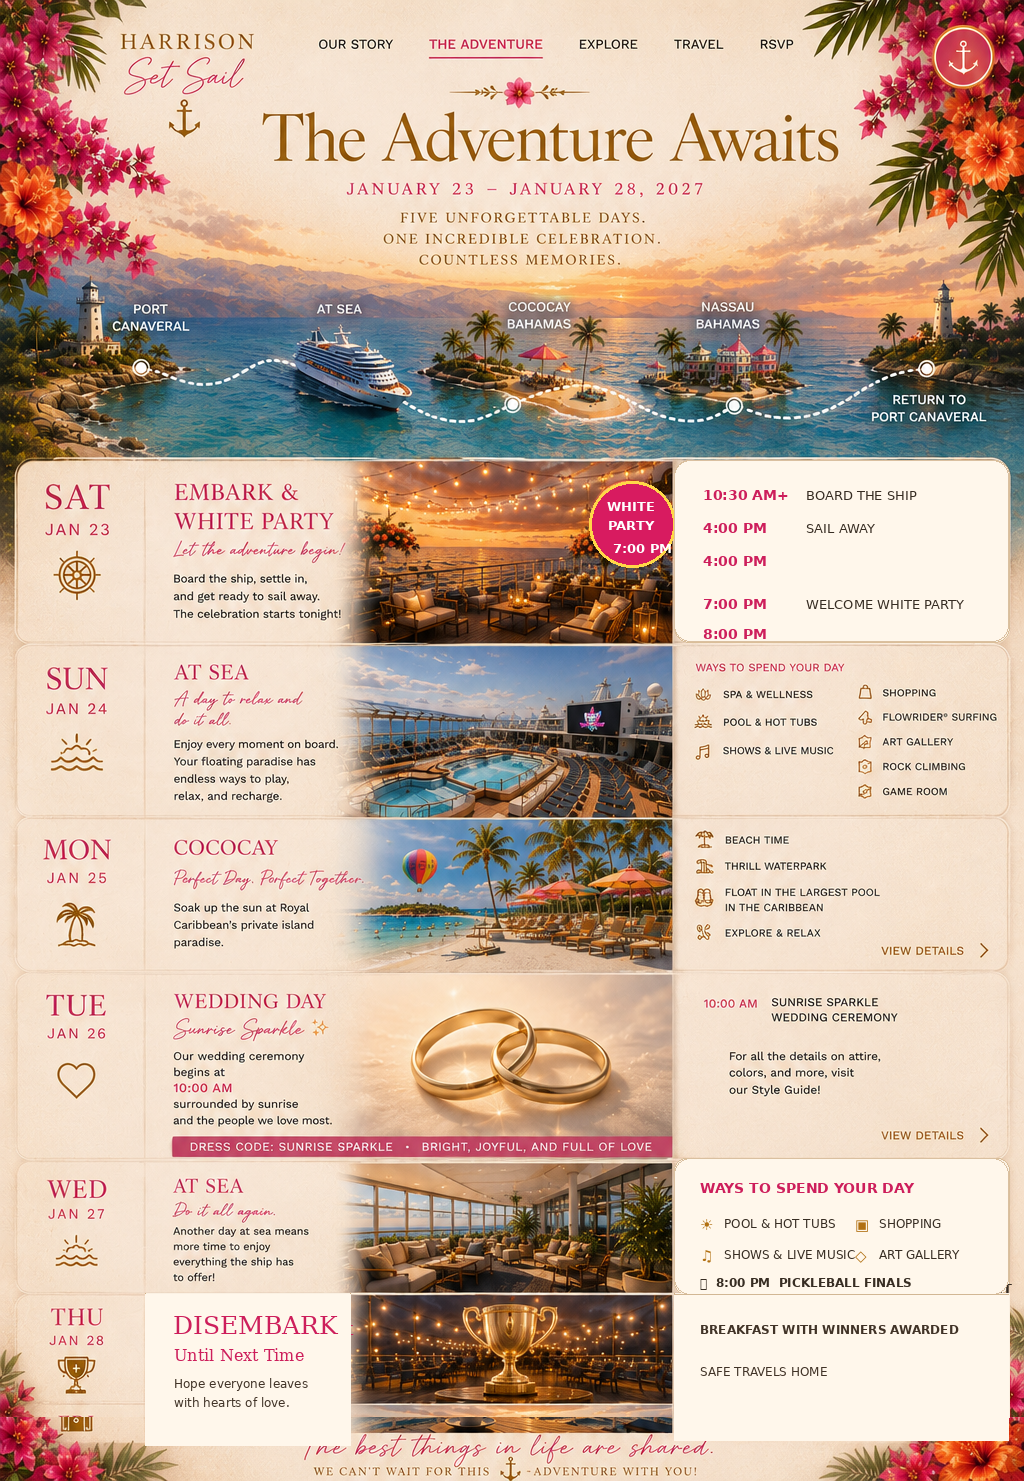
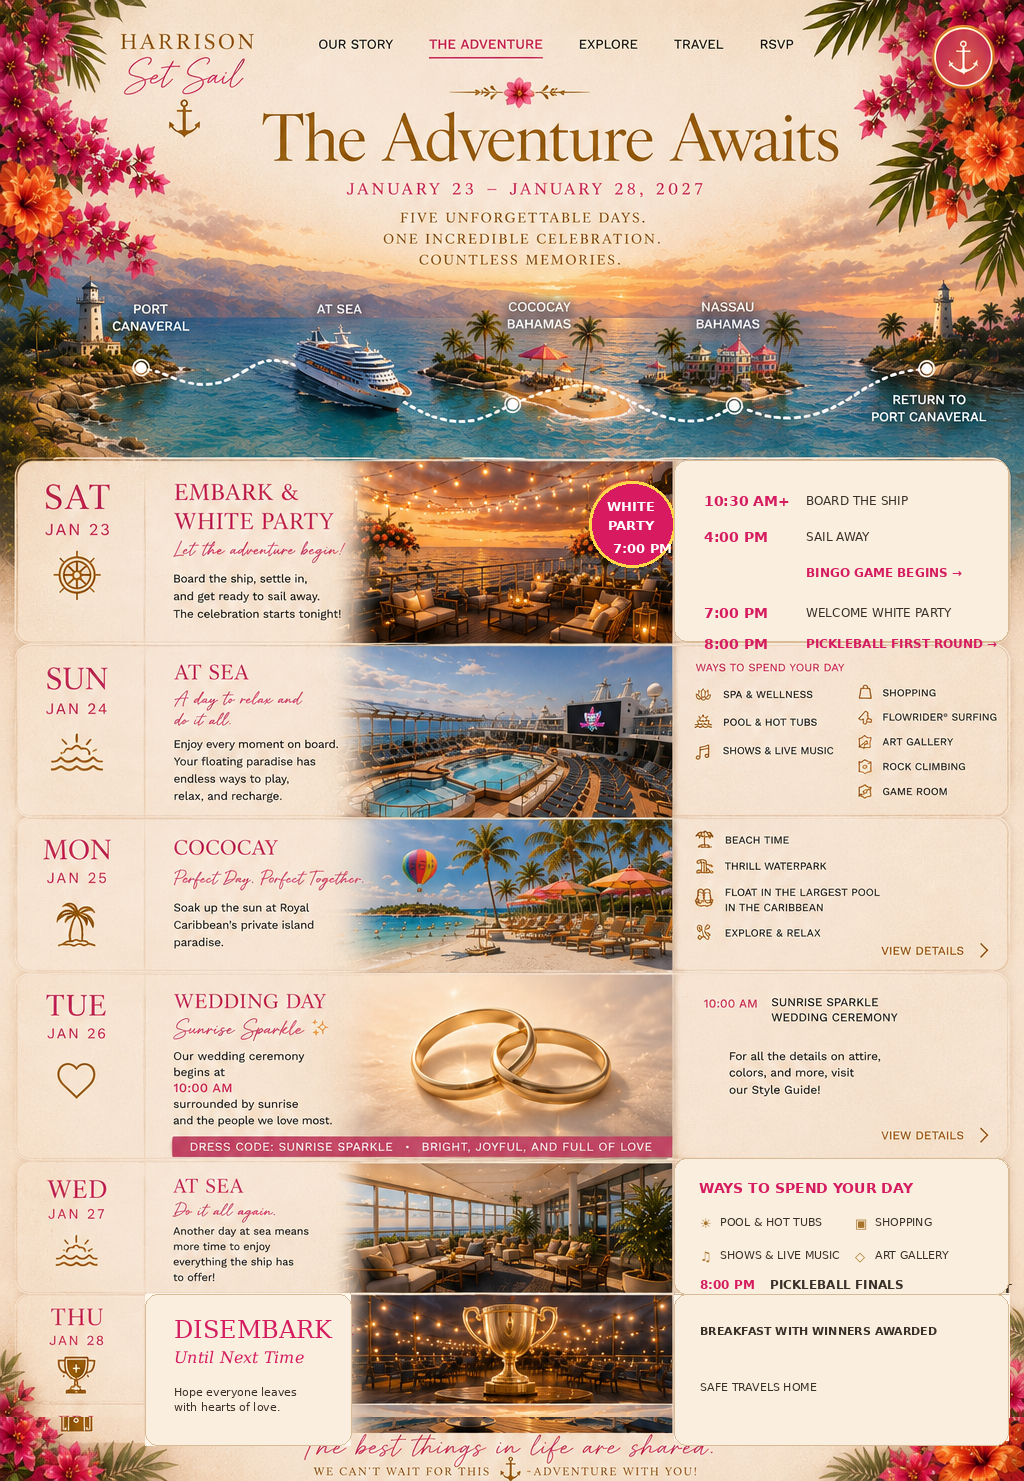
fix sizing and font rsvp

diff --git a/css/site.css b/css/site.css
@@ -140,3 +140,44 @@
  .rsvp-luxe-header{padding:0 12px}
  .rsvp-section{padding:12px}
 }
+
+/* Version 16 — clean final corrections */
+/* Adventure is now baked into one image; no patch panels can overlap. */
+.action-chip,.itinerary-fix{display:none!important}
+
+/* RSVP: clean tropical invitation, no cropped mockup fragments. */
+.rsvp-luxe-body{background:linear-gradient(180deg,#0b405c,#062c42)!important}
+.rsvp-luxe-shell{padding:48px 18px 90px!important}
+.rsvp-luxe-card{
+  position:relative!important;overflow:hidden!important;width:min(760px,94vw)!important;
+  margin:auto!important;padding:64px 66px 58px!important;border:2px solid #d5a648!important;
+  border-radius:30px!important;background:#fff9ef!important;
+  box-shadow:0 28px 70px rgba(0,0,0,.34),inset 0 0 0 8px rgba(255,255,255,.55)!important;
+}
+.rsvp-luxe-card:before{content:""!important;position:absolute!important;inset:14px!important;border:1px solid rgba(201,147,47,.45)!important;border-radius:20px!important;z-index:0!important}
+.rsvp-luxe-card:after{content:"🌺"!important;display:block!important;position:absolute!important;right:28px!important;top:22px!important;font-size:48px!important;z-index:1!important}
+.rsvp-floral{display:none!important}
+.rsvp-luxe-header,.rsvp-luxe-form{position:relative!important;z-index:2!important}
+.rsvp-luxe-header{max-width:590px!important;margin:auto!important;padding:0 32px!important;text-align:center!important}
+.rsvp-anchor{font-size:30px!important;margin:0 0 4px!important}
+.rsvp-kicker{font-size:13px!important;letter-spacing:.12em!important}
+.rsvp-luxe-header h1{font-size:clamp(48px,6vw,68px)!important;line-height:.96!important;margin:10px 0 14px!important;color:#102f46!important}
+.rsvp-divider{margin:14px auto!important}.rsvp-personal{margin:17px 0 0!important;font-size:21px!important}
+.rsvp-luxe-form{display:grid!important;gap:18px!important;margin-top:30px!important;padding-bottom:0!important}
+.rsvp-section{padding:16px!important;background:#fffdf9!important;border:1px solid #ead8bc!important;border-radius:14px!important;box-shadow:none!important}
+.rsvp-section h2{font-size:15px!important;margin:0 0 10px!important}
+.rsvp-two-col,.rsvp-choice-row{gap:14px!important}
+.activity-grid{gap:10px!important}
+.activity-card{min-height:112px!important;background:#fffaf2!important}
+.aligned-card{margin:0!important}
+.rsvp-section textarea{min-height:105px!important;margin:6px 0 0!important;position:static!important}
+.rsvp-submit{position:static!important;margin:8px auto 0!important;min-width:245px!important}
+.rsvp-script{position:static!important;margin:0!important;padding:0!important;text-align:center!important}
+@media(max-width:760px){
+ .rsvp-luxe-card{padding:50px 22px 44px!important;border-radius:22px!important}
+ .rsvp-luxe-card:after{font-size:36px!important;right:16px!important;top:14px!important}
+ .rsvp-luxe-header{padding:0 8px!important}
+ .rsvp-luxe-header h1{font-size:42px!important}
+ .rsvp-two-col,.rsvp-choice-row{grid-template-columns:1fr!important}
+ .activity-grid{grid-template-columns:repeat(2,1fr)!important}
+}

diff --git a/explore.html b/explore.html
@@ -1,4 +1,4 @@
-<!doctype html><html lang="en"><head><meta charset="utf-8"><meta name="viewport" content="width=device-width,initial-scale=1"><title>Explore the Ship | Julia & Wesley</title><link rel="stylesheet" href="css/site.css?v=15"></head><body><main class="page-shell explore-shell"><img class="approved-page" src="assets/approved/explore.png" alt="Explore the Ship approved design">
+<!doctype html><html lang="en"><head><meta charset="utf-8"><meta name="viewport" content="width=device-width,initial-scale=1"><title>Explore the Ship | Julia & Wesley</title><link rel="stylesheet" href="css/site.css?v=16"></head><body><main class="page-shell explore-shell"><img class="approved-page" src="assets/approved/explore.png" alt="Explore the Ship approved design">
 <a class="hotspot" aria-label="Home" href="index.html?skip=1" style="left:14%;top:1%;width:10%;height:4%"></a><a class="hotspot" aria-label="Our Story" href="our-story.html" style="left:25%;top:1%;width:13%;height:4%"></a><a class="hotspot" aria-label="The Adventure" href="adventure.html" style="left:39%;top:1%;width:16%;height:4%"></a><a class="hotspot" aria-label="Explore" href="explore.html" style="left:56%;top:1%;width:10%;height:4%"></a><a class="hotspot" aria-label="Travel" href="travel.html" style="left:67%;top:1%;width:9%;height:4%"></a><a class="hotspot" aria-label="RSVP" href="rsvp.html" style="left:77%;top:.5%;width:13%;height:5%"></a>
 <div class="ship-interactive" id="ship-interactive" aria-label="Drag the aerial ship view to rotate and use the mouse wheel to zoom"><img src="assets/approved/ship-map-crop.jpg" alt="Aerial deck map of Harmony of the Seas"></div>
 <button class="hotspot neighborhood" data-neighborhood="pool" style="left:23%;top:47.2%;width:13%;height:3%" aria-label="Show Pool Deck"></button><button class="hotspot neighborhood" data-neighborhood="central" style="left:40%;top:47.2%;width:15%;height:3%" aria-label="Show Central Park"></button><button class="hotspot neighborhood" data-neighborhood="entertainment" style="left:58%;top:47.2%;width:19%;height:3%" aria-label="Show Entertainment Place"></button><button class="hotspot neighborhood" data-neighborhood="spa" style="left:83%;top:51%;width:13%;height:3%" aria-label="Show Vitality Spa"></button><button class="hotspot neighborhood" data-neighborhood="boardwalk" style="left:20%;top:56.9%;width:14%;height:3%" aria-label="Show Boardwalk"></button><button class="hotspot neighborhood" data-neighborhood="promenade" style="left:39%;top:57%;width:18%;height:3%" aria-label="Show Royal Promenade"></button><button class="hotspot neighborhood" data-neighborhood="youth" style="left:61%;top:57%;width:13%;height:3%" aria-label="Show Youth Zone"></button>

diff --git a/adventure.html b/adventure.html
@@ -1,9 +1,4 @@
-<!doctype html><html lang="en"><head><meta charset="utf-8"><meta name="viewport" content="width=device-width,initial-scale=1"><title>The Adventure | Julia & Wesley</title><link rel="stylesheet" href="css/site.css?v=15"></head><body><main class="page-shell"><img class="approved-page" src="assets/approved/adventure.png" alt="The Adventure cruise itinerary">
+<!doctype html><html lang="en"><head><meta charset="utf-8"><meta name="viewport" content="width=device-width,initial-scale=1"><title>The Adventure | Julia & Wesley</title><link rel="stylesheet" href="css/site.css?v=16"></head><body><main class="page-shell"><img class="approved-page" src="assets/approved/adventure.png" alt="The Adventure cruise itinerary">
 <a class="hotspot" aria-label="Our Story" href="our-story.html" style="left:31%;top:1%;width:11%;height:4%"></a><a class="hotspot" aria-label="The Adventure" href="adventure.html" style="left:42%;top:1%;width:14%;height:4%"></a><a class="hotspot" aria-label="Explore" href="explore.html" style="left:56%;top:1%;width:9%;height:4%"></a><a class="hotspot" aria-label="Travel" href="travel.html" style="left:66%;top:1%;width:8%;height:4%"></a><a class="hotspot" aria-label="RSVP" href="rsvp.html" style="left:74%;top:.5%;width:14%;height:5%"></a>
-<a class="action-chip sat-bingo" href="bingo.html">Bingo game begins →</a>
-<a class="action-chip sat-pickleball" href="pickleball.html">8:00 PM&nbsp;&nbsp; Pickleball first round →</a>
-<div class="itinerary-fix wed-panel"><h3>Ways to spend your day</h3><div class="wed-grid"><span>☀ Pool &amp; hot tubs</span><span>▣ Shopping</span><span>♫ Shows &amp; live music</span><span>◇ Art gallery</span></div><p><strong>8:00 PM&nbsp;&nbsp; Pickleball finals</strong></p></div>
-<div class="itinerary-fix thu-left"><h3>Disembark</h3><em>Until Next Time</em><p>Hope everyone leaves<br>with hearts of love.</p></div>
-<div class="itinerary-fix thu-right"><p><strong>Breakfast with winners awarded</strong></p><p>Safe travels home</p></div>
 <a class="details-button" href="cococay.html" style="left:84%;top:62.6%">View details →</a><a class="details-button" href="wedding-day.html" style="left:84%;top:75.7%">View details →</a>
 </main></body></html>

diff --git a/cococay.html b/cococay.html
@@ -1,1 +1,1 @@
-<!doctype html><html lang="en"><head><meta charset="utf-8"><meta name="viewport" content="width=device-width,initial-scale=1"><title>Perfect Day at CocoCay | Julia & Wesley</title><link rel="stylesheet" href="css/site.css?v=15"></head><body><main class="page-shell"><img class="approved-page" src="assets/approved/cococay.png" alt="Perfect Day at CocoCay approved design"><a class="hotspot" aria-label="Home" href="index.html?skip=1" style="left:14%;top:1%;width:10%;height:4%"></a><a class="hotspot" aria-label="Our Story" href="our-story.html" style="left:25%;top:1%;width:13%;height:4%"></a><a class="hotspot" aria-label="The Adventure" href="adventure.html" style="left:39%;top:1%;width:16%;height:4%"></a><a class="hotspot" aria-label="Explore" href="explore.html" style="left:56%;top:1%;width:10%;height:4%"></a><a class="hotspot" aria-label="Travel" href="travel.html" style="left:67%;top:1%;width:9%;height:4%"></a><a class="hotspot" aria-label="RSVP" href="rsvp.html" style="left:76%;top:.3%;width:15%;height:5%"></a></main></body></html>
+<!doctype html><html lang="en"><head><meta charset="utf-8"><meta name="viewport" content="width=device-width,initial-scale=1"><title>Perfect Day at CocoCay | Julia & Wesley</title><link rel="stylesheet" href="css/site.css?v=16"></head><body><main class="page-shell"><img class="approved-page" src="assets/approved/cococay.png" alt="Perfect Day at CocoCay approved design"><a class="hotspot" aria-label="Home" href="index.html?skip=1" style="left:14%;top:1%;width:10%;height:4%"></a><a class="hotspot" aria-label="Our Story" href="our-story.html" style="left:25%;top:1%;width:13%;height:4%"></a><a class="hotspot" aria-label="The Adventure" href="adventure.html" style="left:39%;top:1%;width:16%;height:4%"></a><a class="hotspot" aria-label="Explore" href="explore.html" style="left:56%;top:1%;width:10%;height:4%"></a><a class="hotspot" aria-label="Travel" href="travel.html" style="left:67%;top:1%;width:9%;height:4%"></a><a class="hotspot" aria-label="RSVP" href="rsvp.html" style="left:76%;top:.3%;width:15%;height:5%"></a></main></body></html>

diff --git a/pickleball.html b/pickleball.html
@@ -1,1 +1,1 @@
-<!doctype html><html lang="en"><head><meta charset="utf-8"><meta name="viewport" content="width=device-width,initial-scale=1"><title>The Dink Before I Do | Julia & Wesley</title><link rel="stylesheet" href="css/site.css?v=15"></head><body><main class="page-shell"><img class="approved-page" src="assets/approved/pickleball.png" alt="The Dink Before I Do approved design"><a class="hotspot" aria-label="Home" href="index.html?skip=1" style="left:14%;top:1%;width:10%;height:4%"></a><a class="hotspot" aria-label="Our Story" href="our-story.html" style="left:25%;top:1%;width:13%;height:4%"></a><a class="hotspot" aria-label="The Adventure" href="adventure.html" style="left:39%;top:1%;width:16%;height:4%"></a><a class="hotspot" aria-label="Explore" href="explore.html" style="left:56%;top:1%;width:10%;height:4%"></a><a class="hotspot" aria-label="Travel" href="travel.html" style="left:67%;top:1%;width:9%;height:4%"></a><a class="hotspot" aria-label="RSVP" href="rsvp.html" style="left:76%;top:.3%;width:15%;height:5%"></a></main></body></html>
+<!doctype html><html lang="en"><head><meta charset="utf-8"><meta name="viewport" content="width=device-width,initial-scale=1"><title>The Dink Before I Do | Julia & Wesley</title><link rel="stylesheet" href="css/site.css?v=16"></head><body><main class="page-shell"><img class="approved-page" src="assets/approved/pickleball.png" alt="The Dink Before I Do approved design"><a class="hotspot" aria-label="Home" href="index.html?skip=1" style="left:14%;top:1%;width:10%;height:4%"></a><a class="hotspot" aria-label="Our Story" href="our-story.html" style="left:25%;top:1%;width:13%;height:4%"></a><a class="hotspot" aria-label="The Adventure" href="adventure.html" style="left:39%;top:1%;width:16%;height:4%"></a><a class="hotspot" aria-label="Explore" href="explore.html" style="left:56%;top:1%;width:10%;height:4%"></a><a class="hotspot" aria-label="Travel" href="travel.html" style="left:67%;top:1%;width:9%;height:4%"></a><a class="hotspot" aria-label="RSVP" href="rsvp.html" style="left:76%;top:.3%;width:15%;height:5%"></a></main></body></html>

diff --git a/wedding-day.html b/wedding-day.html
@@ -1,1 +1,1 @@
-<!doctype html><html lang="en"><head><meta charset="utf-8"><meta name="viewport" content="width=device-width,initial-scale=1"><title>Wedding Day | Julia & Wesley</title><link rel="stylesheet" href="css/site.css?v=15"></head><body><main class="page-shell"><img class="approved-page" src="assets/approved/wedding-day.png" alt="Wedding Day approved design"><a class="hotspot" aria-label="Home" href="index.html?skip=1" style="left:14%;top:1%;width:10%;height:4%"></a><a class="hotspot" aria-label="Our Story" href="our-story.html" style="left:25%;top:1%;width:13%;height:4%"></a><a class="hotspot" aria-label="The Adventure" href="adventure.html" style="left:39%;top:1%;width:16%;height:4%"></a><a class="hotspot" aria-label="Explore" href="explore.html" style="left:56%;top:1%;width:10%;height:4%"></a><a class="hotspot" aria-label="Travel" href="travel.html" style="left:67%;top:1%;width:9%;height:4%"></a><a class="hotspot" aria-label="RSVP" href="rsvp.html" style="left:76%;top:.3%;width:15%;height:5%"></a></main></body></html>
+<!doctype html><html lang="en"><head><meta charset="utf-8"><meta name="viewport" content="width=device-width,initial-scale=1"><title>Wedding Day | Julia & Wesley</title><link rel="stylesheet" href="css/site.css?v=16"></head><body><main class="page-shell"><img class="approved-page" src="assets/approved/wedding-day.png" alt="Wedding Day approved design"><a class="hotspot" aria-label="Home" href="index.html?skip=1" style="left:14%;top:1%;width:10%;height:4%"></a><a class="hotspot" aria-label="Our Story" href="our-story.html" style="left:25%;top:1%;width:13%;height:4%"></a><a class="hotspot" aria-label="The Adventure" href="adventure.html" style="left:39%;top:1%;width:16%;height:4%"></a><a class="hotspot" aria-label="Explore" href="explore.html" style="left:56%;top:1%;width:10%;height:4%"></a><a class="hotspot" aria-label="Travel" href="travel.html" style="left:67%;top:1%;width:9%;height:4%"></a><a class="hotspot" aria-label="RSVP" href="rsvp.html" style="left:76%;top:.3%;width:15%;height:5%"></a></main></body></html>

diff --git a/our-story.html b/our-story.html
@@ -1,1 +1,1 @@
-<!doctype html><html lang="en"><head><meta charset="utf-8"><meta name="viewport" content="width=device-width,initial-scale=1"><title>Our Story | Julia & Wesley</title><link rel="stylesheet" href="css/site.css?v=15"></head><body><main class="page-shell"><img class="approved-page" src="assets/approved/our-story.png" alt="Our Story approved design"><a class="hotspot" aria-label="Home" href="index.html?skip=1" style="left:14%;top:1%;width:10%;height:4%"></a><a class="hotspot" aria-label="Our Story" href="our-story.html" style="left:25%;top:1%;width:13%;height:4%"></a><a class="hotspot" aria-label="The Adventure" href="adventure.html" style="left:39%;top:1%;width:16%;height:4%"></a><a class="hotspot" aria-label="Explore" href="explore.html" style="left:56%;top:1%;width:10%;height:4%"></a><a class="hotspot" aria-label="Travel" href="travel.html" style="left:67%;top:1%;width:9%;height:4%"></a><a class="hotspot" aria-label="RSVP" href="rsvp.html" style="left:76%;top:.3%;width:15%;height:5%"></a></main></body></html>
+<!doctype html><html lang="en"><head><meta charset="utf-8"><meta name="viewport" content="width=device-width,initial-scale=1"><title>Our Story | Julia & Wesley</title><link rel="stylesheet" href="css/site.css?v=16"></head><body><main class="page-shell"><img class="approved-page" src="assets/approved/our-story.png" alt="Our Story approved design"><a class="hotspot" aria-label="Home" href="index.html?skip=1" style="left:14%;top:1%;width:10%;height:4%"></a><a class="hotspot" aria-label="Our Story" href="our-story.html" style="left:25%;top:1%;width:13%;height:4%"></a><a class="hotspot" aria-label="The Adventure" href="adventure.html" style="left:39%;top:1%;width:16%;height:4%"></a><a class="hotspot" aria-label="Explore" href="explore.html" style="left:56%;top:1%;width:10%;height:4%"></a><a class="hotspot" aria-label="Travel" href="travel.html" style="left:67%;top:1%;width:9%;height:4%"></a><a class="hotspot" aria-label="RSVP" href="rsvp.html" style="left:76%;top:.3%;width:15%;height:5%"></a></main></body></html>

diff --git a/bingo.html b/bingo.html
@@ -1,1 +1,1 @@
-<!doctype html><html lang="en"><head><meta charset="utf-8"><meta name="viewport" content="width=device-width,initial-scale=1"><title>Bingo | Julia & Wesley</title><link rel="stylesheet" href="css/site.css?v=15"></head><body><main class="page-shell"><img class="approved-page" src="assets/approved/bingo.png" alt="Bingo approved design"><a class="hotspot" aria-label="Home" href="index.html?skip=1" style="left:14%;top:1%;width:10%;height:4%"></a><a class="hotspot" aria-label="Our Story" href="our-story.html" style="left:25%;top:1%;width:13%;height:4%"></a><a class="hotspot" aria-label="The Adventure" href="adventure.html" style="left:39%;top:1%;width:16%;height:4%"></a><a class="hotspot" aria-label="Explore" href="explore.html" style="left:56%;top:1%;width:10%;height:4%"></a><a class="hotspot" aria-label="Travel" href="travel.html" style="left:67%;top:1%;width:9%;height:4%"></a><a class="hotspot" aria-label="RSVP" href="rsvp.html" style="left:76%;top:.3%;width:15%;height:5%"></a></main></body></html>
+<!doctype html><html lang="en"><head><meta charset="utf-8"><meta name="viewport" content="width=device-width,initial-scale=1"><title>Bingo | Julia & Wesley</title><link rel="stylesheet" href="css/site.css?v=16"></head><body><main class="page-shell"><img class="approved-page" src="assets/approved/bingo.png" alt="Bingo approved design"><a class="hotspot" aria-label="Home" href="index.html?skip=1" style="left:14%;top:1%;width:10%;height:4%"></a><a class="hotspot" aria-label="Our Story" href="our-story.html" style="left:25%;top:1%;width:13%;height:4%"></a><a class="hotspot" aria-label="The Adventure" href="adventure.html" style="left:39%;top:1%;width:16%;height:4%"></a><a class="hotspot" aria-label="Explore" href="explore.html" style="left:56%;top:1%;width:10%;height:4%"></a><a class="hotspot" aria-label="Travel" href="travel.html" style="left:67%;top:1%;width:9%;height:4%"></a><a class="hotspot" aria-label="RSVP" href="rsvp.html" style="left:76%;top:.3%;width:15%;height:5%"></a></main></body></html>

diff --git a/travel.html b/travel.html
@@ -1,4 +1,4 @@
-<!doctype html><html lang="en"><head><meta charset="utf-8"><meta name="viewport" content="width=device-width,initial-scale=1"><title>Travel & Booking | Julia & Wesley</title><link rel="stylesheet" href="css/site.css?v=15"></head><body><main class="page-shell"><img class="approved-page" src="assets/approved/travel.png" alt="Travel and Booking approved design">
+<!doctype html><html lang="en"><head><meta charset="utf-8"><meta name="viewport" content="width=device-width,initial-scale=1"><title>Travel & Booking | Julia & Wesley</title><link rel="stylesheet" href="css/site.css?v=16"></head><body><main class="page-shell"><img class="approved-page" src="assets/approved/travel.png" alt="Travel and Booking approved design">
 <a class="hotspot" aria-label="Home" href="index.html?skip=1" style="left:11%;top:1%;width:9%;height:4%"></a><a class="hotspot" aria-label="Our Story" href="our-story.html" style="left:20%;top:1%;width:12%;height:4%"></a><a class="hotspot" aria-label="The Adventure" href="adventure.html" style="left:31%;top:1%;width:15%;height:4%"></a><a class="hotspot" aria-label="Explore" href="explore.html" style="left:45%;top:1%;width:13%;height:4%"></a><a class="hotspot" aria-label="Travel" href="travel.html" style="left:57%;top:1%;width:9%;height:4%"></a><a class="hotspot" aria-label="RSVP" href="rsvp.html" style="left:66%;top:.3%;width:12%;height:5%"></a>
 <div class="faq-hotspots" aria-label="Booking FAQs">
 <button data-answer="Cabins will be reserved through Aligned Journeys using the booking link provided here once booking opens." style="left:4%;top:82.0%;width:29%;height:2.8%"></button>

diff --git a/index.html b/index.html
@@ -1,4 +1,4 @@
-<!doctype html><html lang="en"><head><meta charset="utf-8"><meta name="viewport" content="width=device-width,initial-scale=1"><title>Julia & Wesley</title><link rel="stylesheet" href="css/site.css?v=15"></head><body>
+<!doctype html><html lang="en"><head><meta charset="utf-8"><meta name="viewport" content="width=device-width,initial-scale=1"><title>Julia & Wesley</title><link rel="stylesheet" href="css/site.css?v=16"></head><body>
 <section class="welcome-gate" id="welcome-gate" aria-labelledby="welcome-title">
   <div class="welcome-card">
     <div class="welcome-anchor">⚓</div>

diff --git a/rsvp.html b/rsvp.html
@@ -4,7 +4,7 @@
   <meta charset="utf-8">
   <meta name="viewport" content="width=device-width,initial-scale=1">
   <title>RSVP | Julia & Wesley</title>
-  <link rel="stylesheet" href="css/site.css?v=15">
+  <link rel="stylesheet" href="css/site.css?v=16">
 </head>
 <body class="rsvp-body rsvp-luxe-body">
   <nav class="real-nav rsvp-nav" aria-label="Primary navigation">
